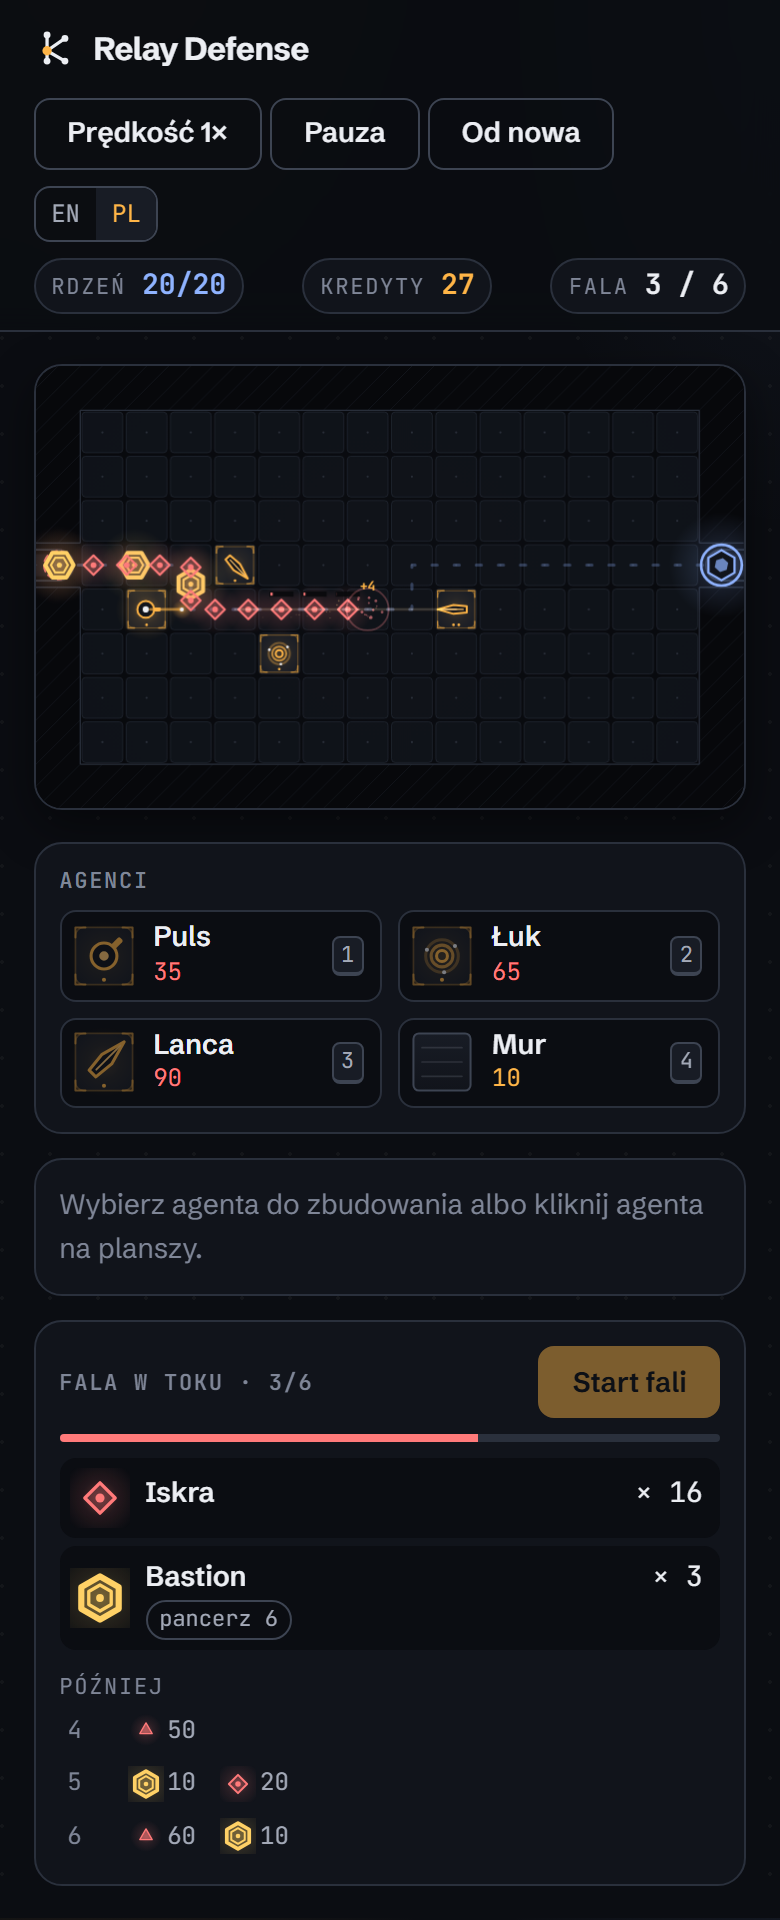
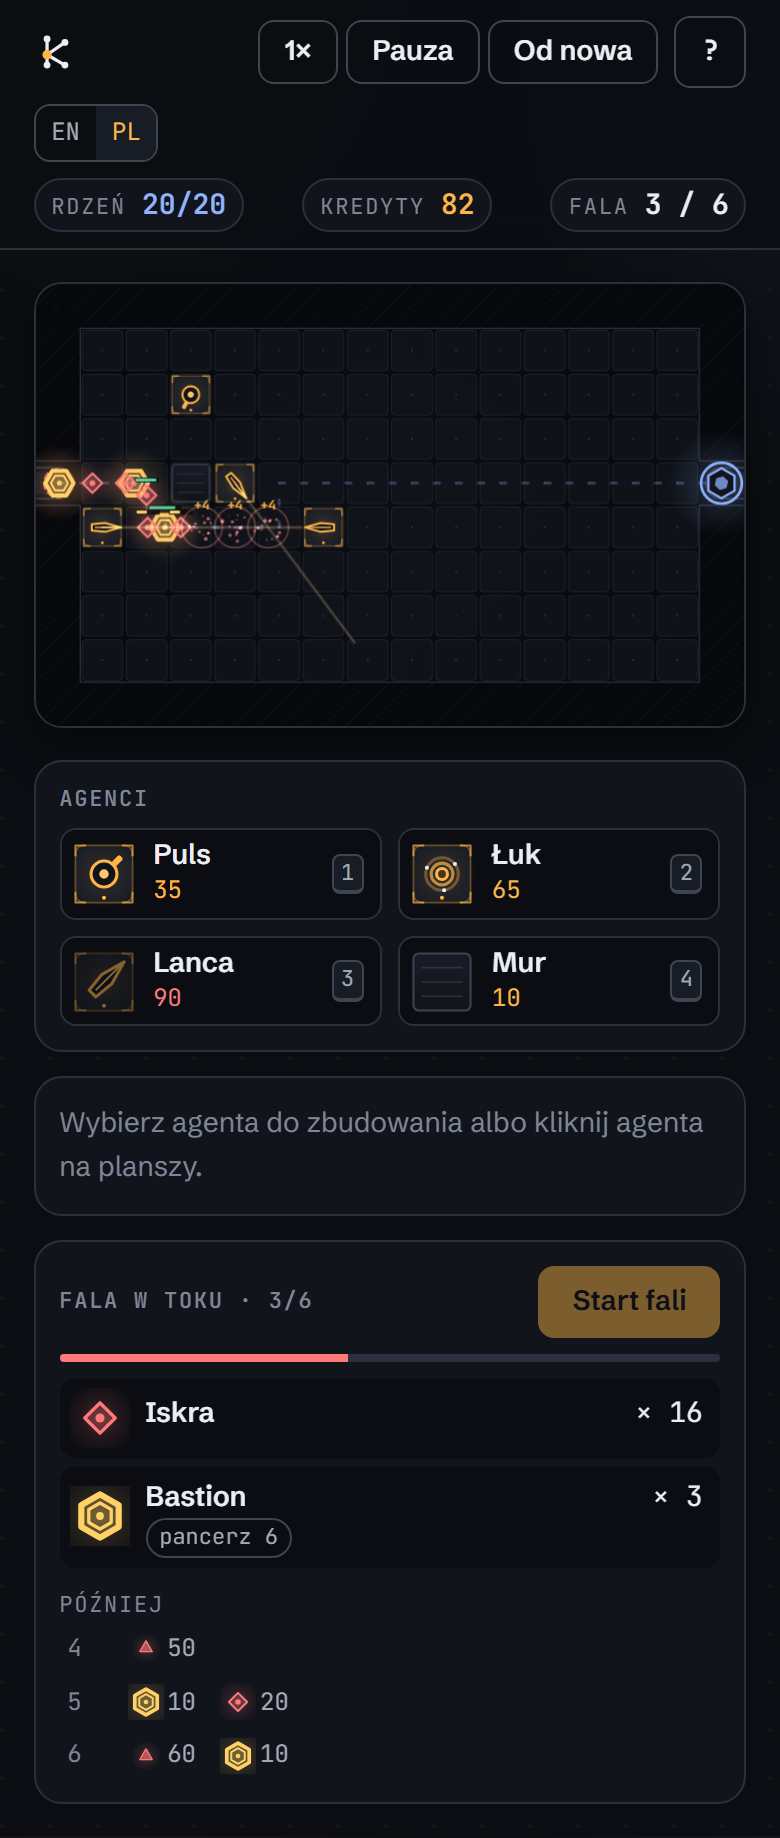
docs: update the balance figures, the maze rule and the screenshots

diff --git a/README.md b/README.md
@@ -22,7 +22,8 @@ Polish.
   The Beacon boosts the eight tiles around it, and boosts add up. On open floor every agent is
   part of the maze, and the preview shows the new route before you commit.
 - **Undo is free.** Selling in the same build phase refunds everything, so a layout can be tried
-  and taken back.
+  and taken back. The maze on open floor only changes between waves (sockets stay open), so
+  faults cannot be juggled back and forth by opening and closing a gap.
 
 | Agent    | Role                                                             |
 | -------- | ---------------------------------------------------------------- |
@@ -48,7 +49,8 @@ Balancing a puzzle by hand is guesswork, so the repository carries its own tools
   each one and expects a win, so every level is winnable at its shipped difficulty.
 - **A difficulty probe** (`npm run probe`). A careless player spends all its credits on random
   agents near the route and upgrades at random. From the third level on it wins at most 15% of
-  the time (a test holds that line); in practice it wins 0–6%.
+  the time (a test holds that line); in practice it wins at most one game in ten,
+  and almost never from the fourth level on.
 - **A tuning table** (`npm run tune -- <level>`): solver result and careless win rate across a
   range of enemy strength. Each level ships at 50–90% of the strength the solver can still beat,
   lower for the tutorial levels and closer to the edge for the last ones.
@@ -85,7 +87,7 @@ tests/        engine mechanics, levels (solutions win, careless play loses), i18
 Keyboard play end to end: `1`–`7` pick an agent, arrow keys move a board cursor with spoken cell
 descriptions, `Enter` builds or selects, `Space` starts a wave or pauses, `U`/`S`/`T` upgrade,
 sell and change the target, `F` changes speed, `Esc` cancels. Game events are announced in a
-live region, dialogs trap focus, and `prefers-reduced-motion` stops screen shake, idle animation
+live region, dialogs keep focus and make the page behind them inert, and `prefers-reduced-motion` stops screen shake, idle animation
 and most particles. On touch screens the first tap previews a placement and the second builds.
 
 ## Embedding
